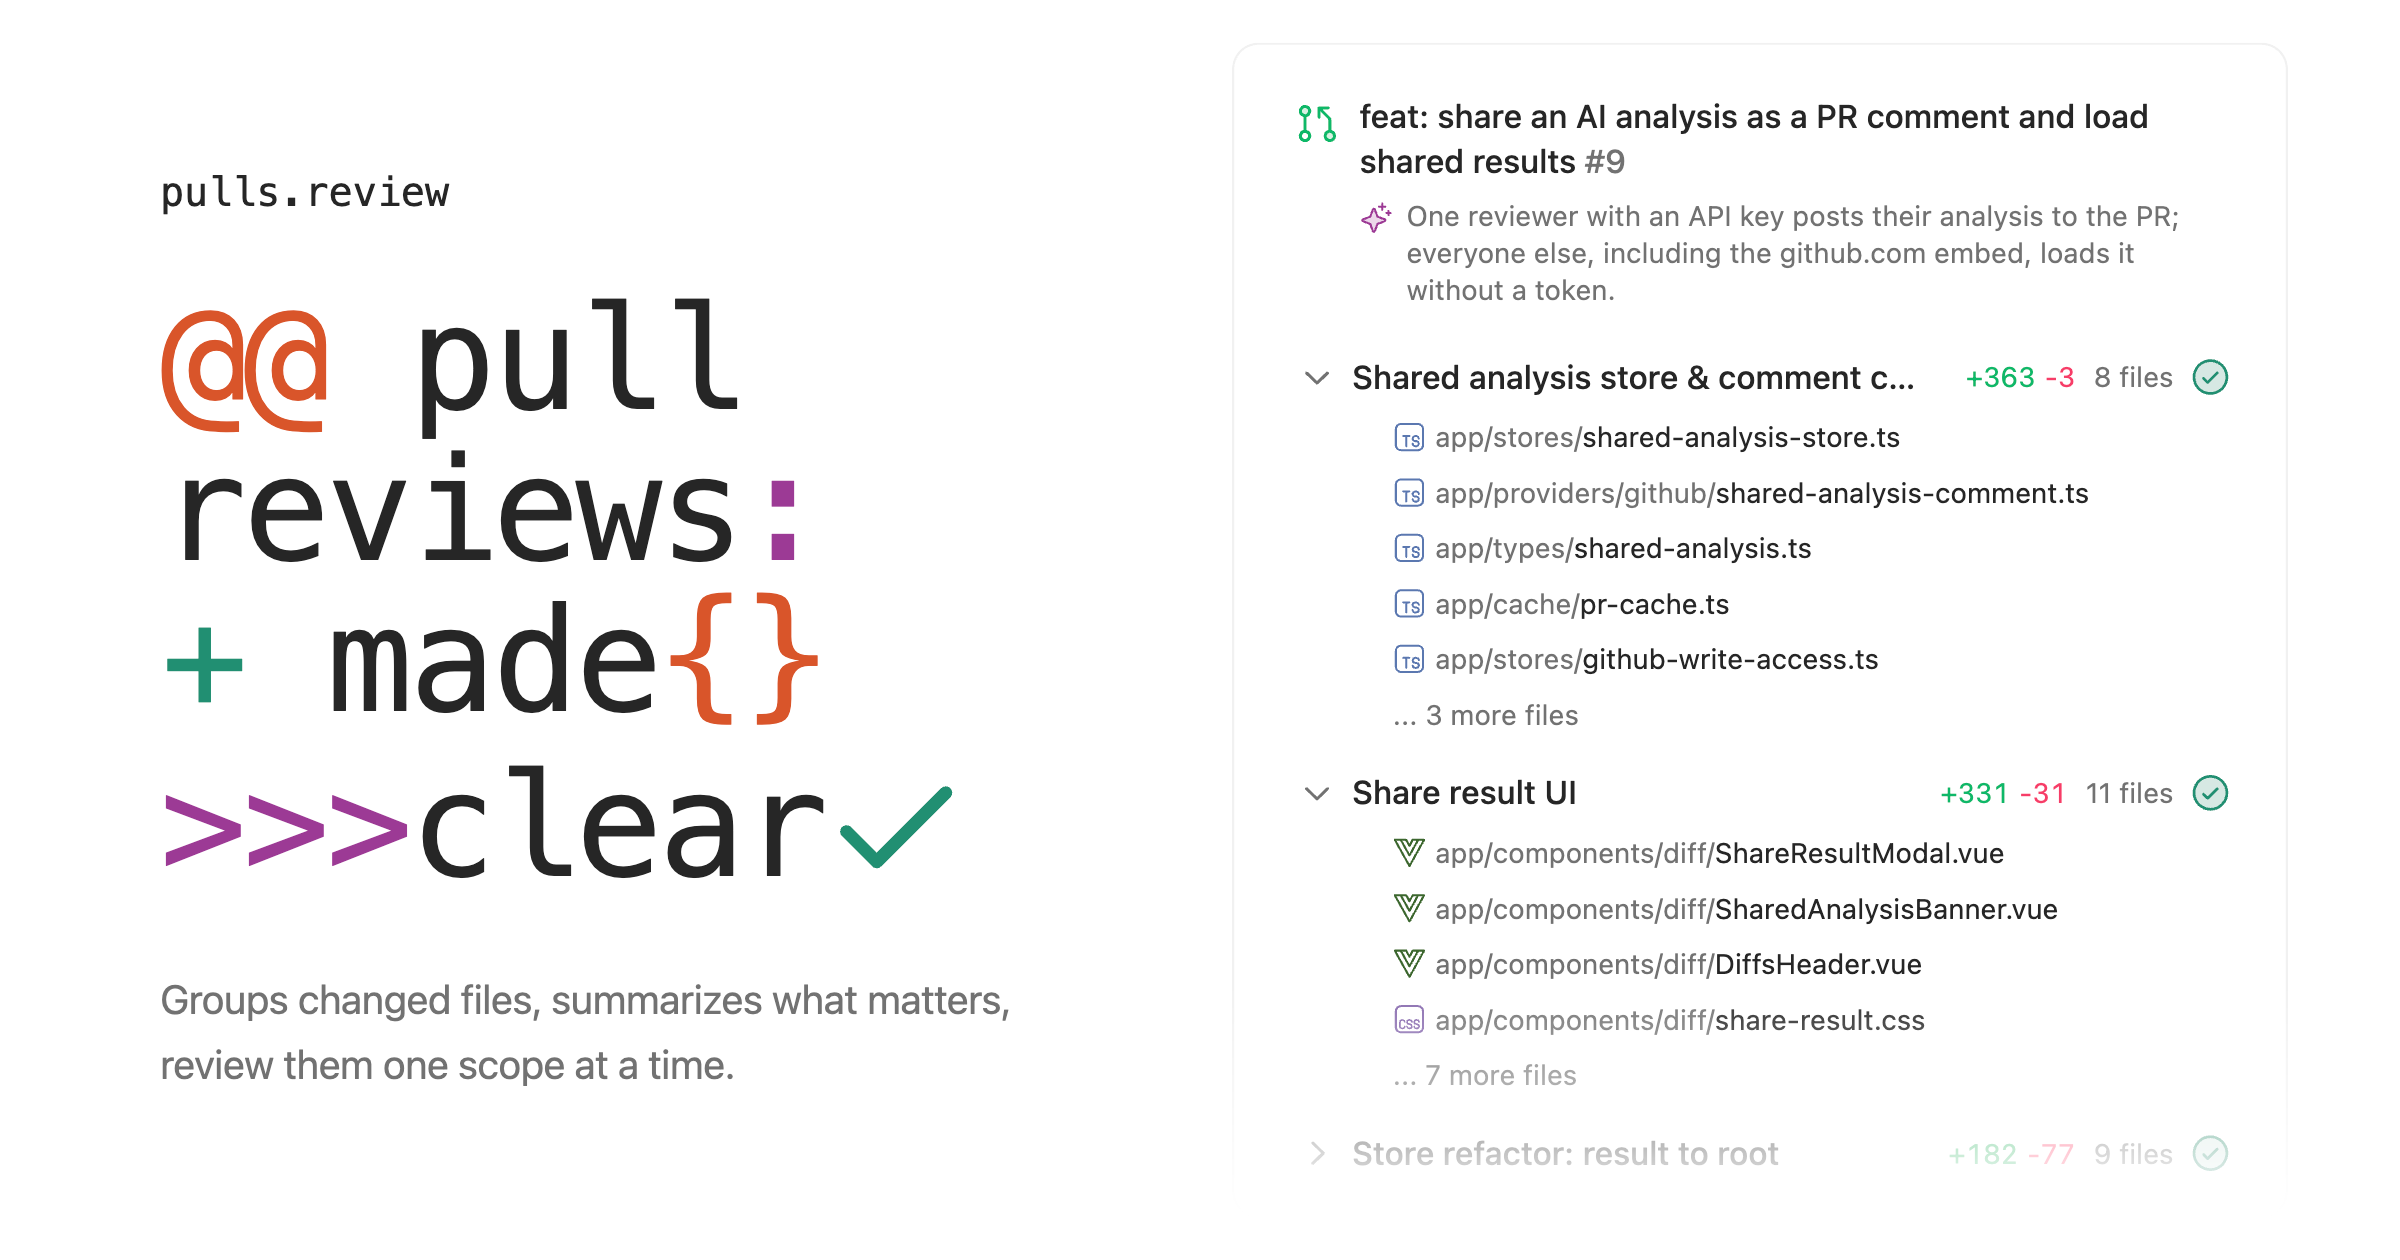
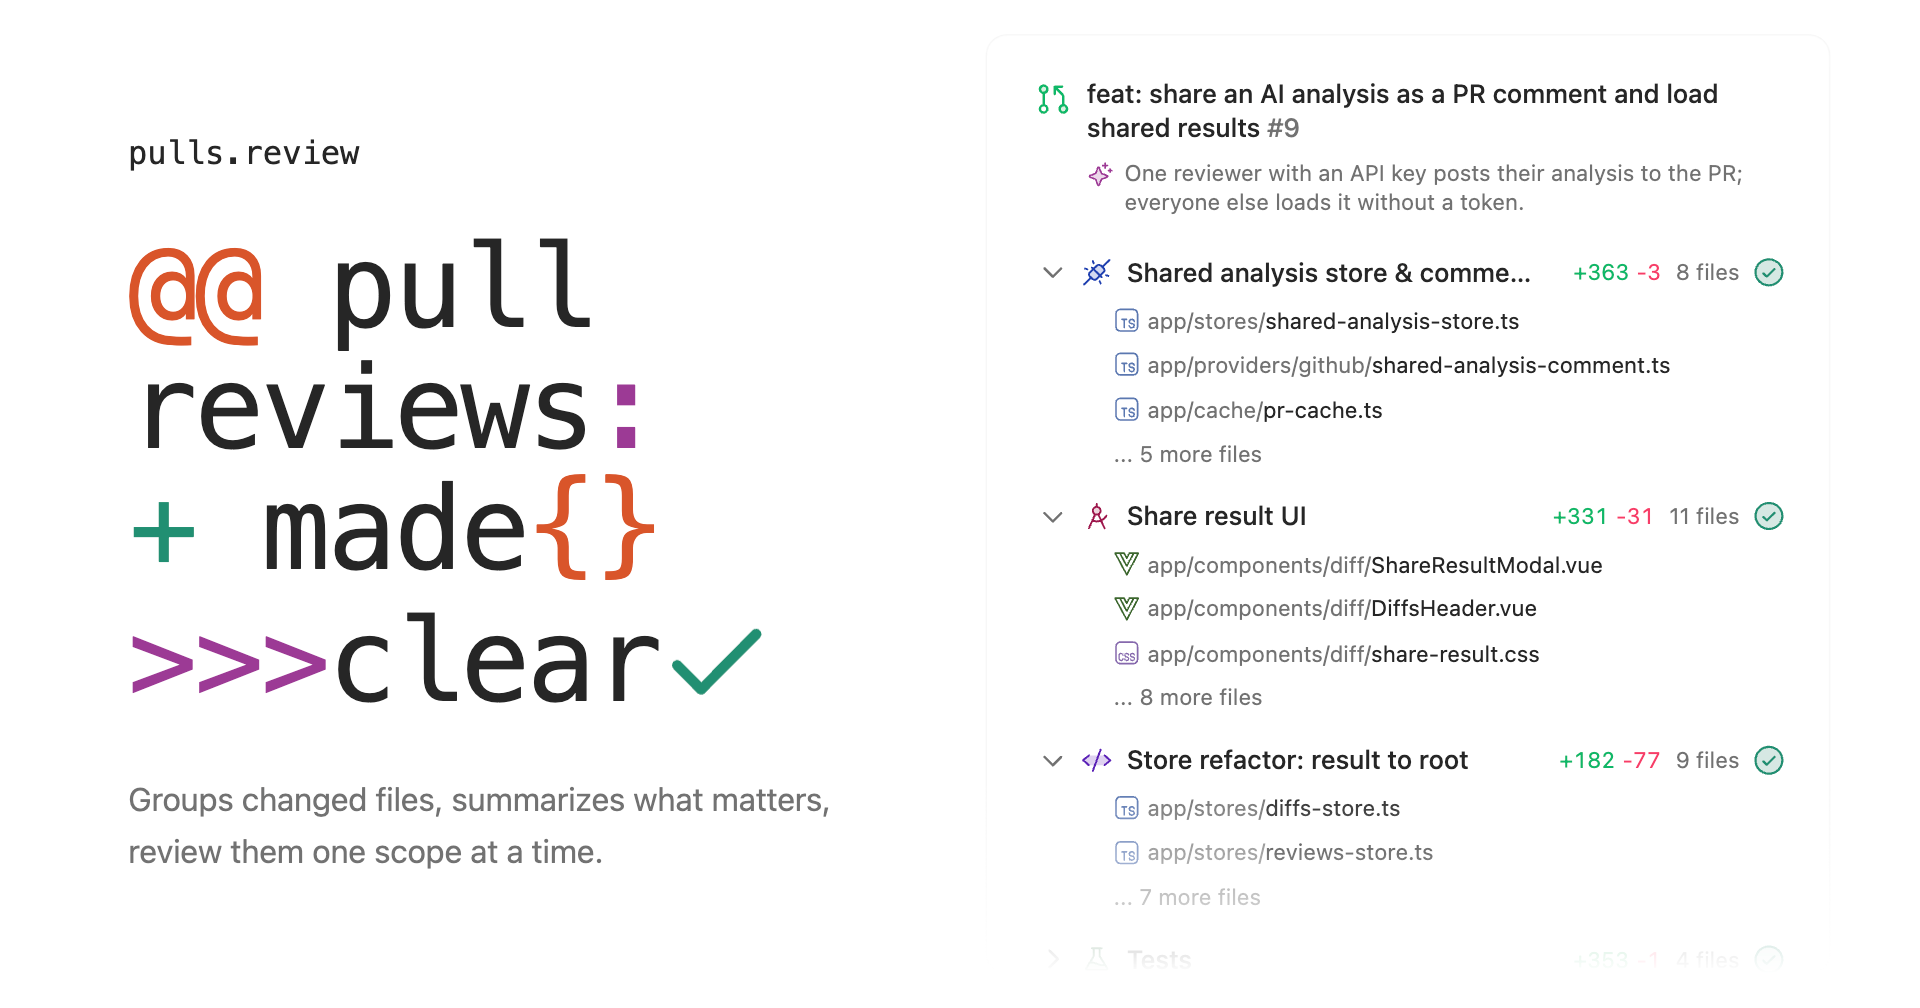
chore: update og image

diff --git a/README.md b/README.md
@@ -1,4 +1,8 @@
-[![Og Image](./packages/app/public/og.png)](https://pulls.review)
+<picture>
+  <source media="(prefers-color-scheme: dark)" srcset="./packages/app/public/og-dark.png">
+  <source media="(prefers-color-scheme: light)" srcset="./packages/app/public/og.png">
+  <img alt="pulls.review Open Graph image" src="./packages/app/public/og.png">
+</picture>
 
 # [pulls.review](https://pulls.review)
 
